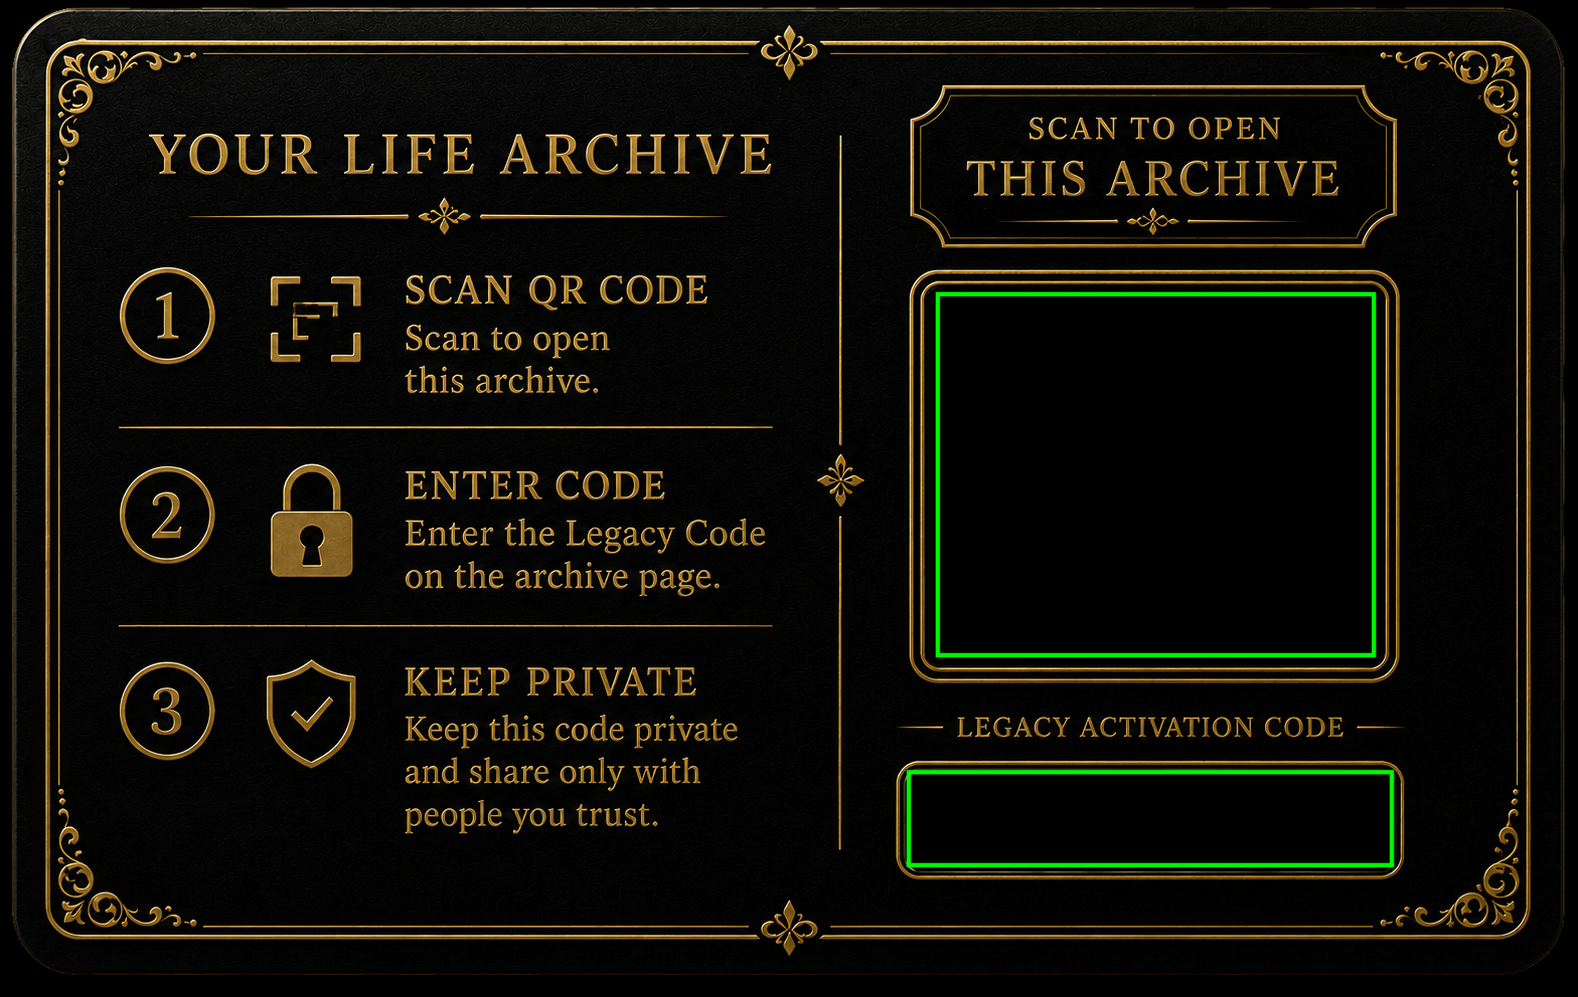
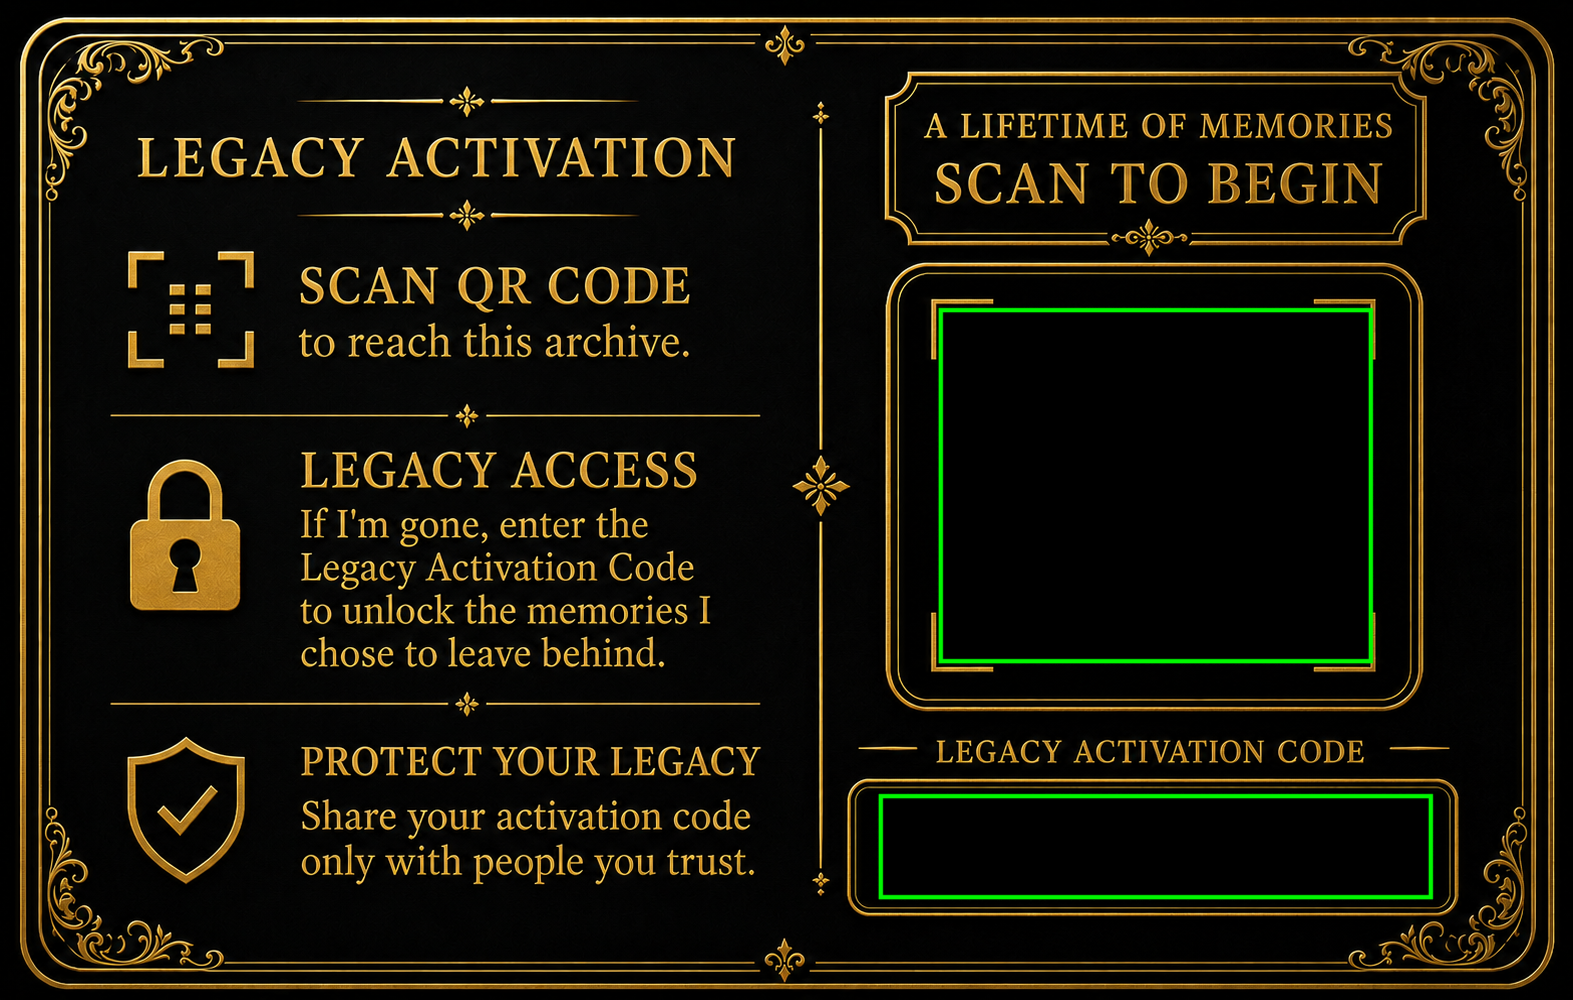
Update public member card layout and artwork

Changed region(s): [[0.0, 0.0, 0.9968, 0.995]]

diff --git a/app/member-card/page.tsx b/app/member-card/page.tsx
@@ -99,7 +99,7 @@ export default async function MemberCardPage({
     <main className="member-card-page relative min-h-screen overflow-hidden bg-archive-obsidian px-5 py-6 text-archive-ivory sm:px-8 sm:py-8">
       <DesignBackdrop />
 
-      <div className="relative mx-auto w-full max-w-[96rem] lg:grid lg:grid-cols-[280px_minmax(0,1fr)] lg:gap-8">
+      <div className="no-print relative mx-auto w-full max-w-[96rem] lg:grid lg:grid-cols-[280px_minmax(0,1fr)] lg:gap-8">
         <AppSidebar
           active="member-card"
           archiveSlug={livingArchive.slug}
@@ -156,7 +156,7 @@ export default async function MemberCardPage({
             <p className="mx-auto mt-7 max-w-2xl text-sm leading-7 text-archive-ivory/68 sm:text-base sm:leading-8">
               {isNewMember
                 ? "Once you create your archive, this card becomes a path back to what you chose to preserve. Print it. Carry it. Keep it where someone you love can find it. Years from now, one scan may open the door to the memories that still sound and feel like you."
-                : "This card is intended to be printed and kept in your wallet. If something ever happens to you before you&apos;ve shared your archive with loved ones, this card can help them find the memories, stories, and legacy you chose to preserve."}
+                : "This card is intended to be printed and kept in your wallet. If something ever happens to you before you’ve shared your archive with loved ones, it can help them find the memories, stories, and legacy you chose to preserve."}
             </p>
 
             {confirmationPending ? (
@@ -177,7 +177,7 @@ export default async function MemberCardPage({
             />
           </div>
 
-          <div className="relative mx-auto mt-10 max-w-3xl">
+          <div className="no-print relative mx-auto mt-10 max-w-3xl">
             <MemberCardActions
               continueHref={continueHref}
               continueLabel={continueLabel}

diff --git a/components/MemberCard.tsx b/components/MemberCard.tsx
@@ -220,7 +220,7 @@ export function MemberCard({
           }}
           aria-label={`Legacy Activation Code: ${legacyActivationCode}`}
         >
-          <p className="font-mono whitespace-nowrap text-[0.5rem] font-bold uppercase tracking-[0.12em] text-[#d5a84e] sm:text-[0.65rem] md:text-[0.78rem] lg:text-[0.92rem] leading-none">
+          <p className="font-mono whitespace-nowrap text-[0.42rem] font-bold uppercase tracking-[0.08em] text-[#d5a84e] sm:text-[0.52rem] sm:tracking-[0.1em] md:text-[0.62rem] lg:text-[0.72rem] leading-none">
             {legacyActivationCode}
           </p>
         </div>
